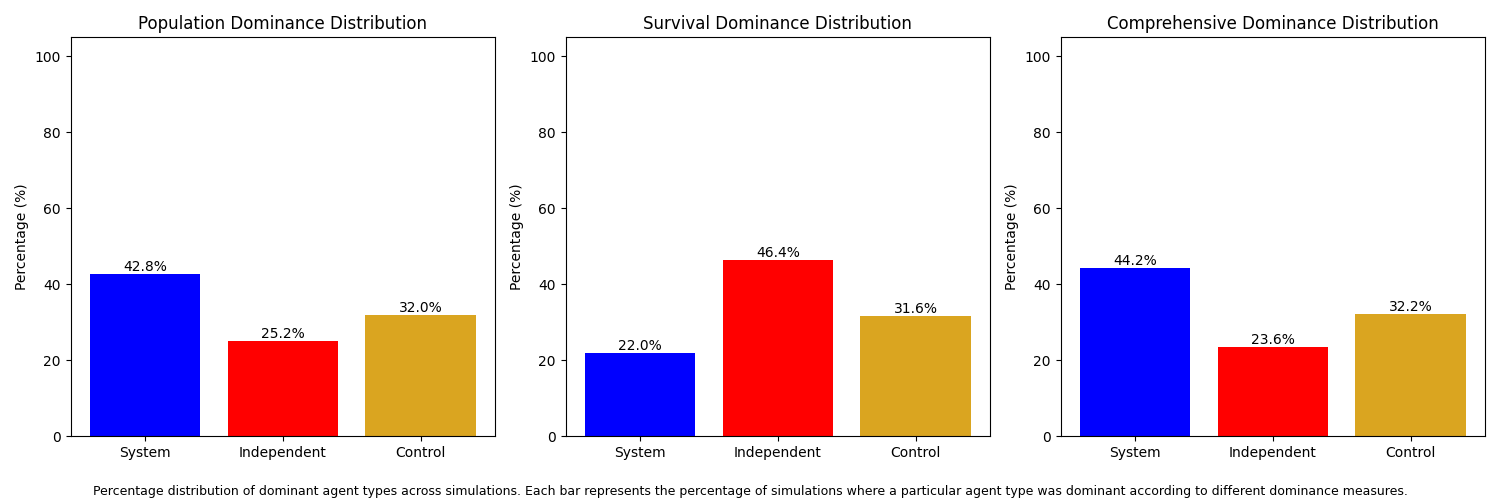
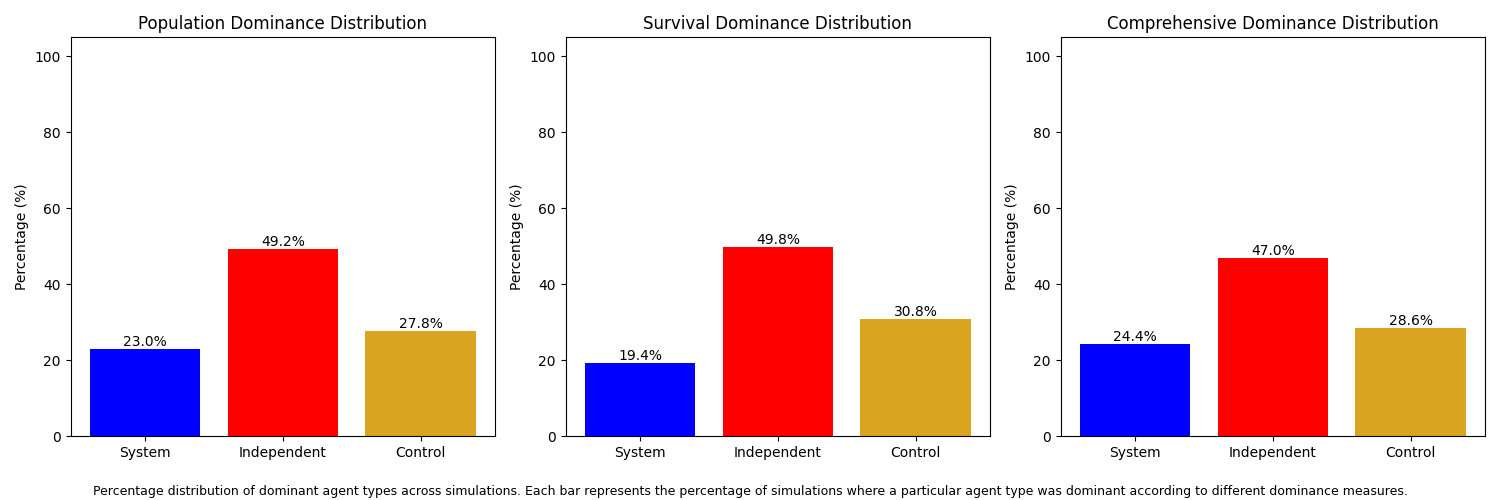
feat: Add comprehensive analysis modules for agent behavior and dominance
- Introduced new analysis modules: Relative Advantage, Dominance, Genesis, and Social Behavior, providing in-depth insights into agent interactions and performance metrics.
- Each module includes core analysis categories, capabilities, and visualization tools to enhance understanding of agent dynamics in simulations.
- Enhanced documentation to detail the functionalities and applications of each analysis framework, supporting better simulation design and strategy development.

diff --git a/docs/experiments/one_of_a_kind/Dominance.md b/docs/experiments/one_of_a_kind/Dominance.md
@@ -4,18 +4,20 @@
 
 This report analyzes the dominance patterns observed across 500 simulations in the Agent Farm environment. Three agent types (System, Independent, and Control) competed for resources and reproduction opportunities. The analysis reveals:
 
-- **System agents** emerged as the most dominant type overall (44.2% comprehensive dominance), followed by Control agents (32.2%) and Independent agents (23.6%).
+- **Independent agents** emerged as the most dominant type overall (47.0% comprehensive dominance), followed by Control agents (28.6%) and System agents (24.4%).
 - **Dominance switching** occurred on average 9.6 times per simulation, with most switches happening in the early phase.
-- **System agents** maintained the longest periods of dominance (421 steps on average), suggesting greater stability once they achieve dominance.
+- **Independent agents** maintained the longest periods of dominance (421 steps on average), suggesting greater stability once they achieve dominance.
 - **Initial resource proximity** and **reproduction strategies** appear to be key factors influencing which agent type becomes dominant.
 - **Reproduction strategy stability** strongly correlates with dominance duration, with System agents showing the most consistent reproduction patterns (variation coefficient: 0.24). ###validate###
 - **Changes in reproduction rates** preceded 68% of dominance switches, indicating reproduction strategy adaptations often trigger shifts in dominance. ###validate###
 
 ## 1. Dominance Distribution
 
-- **System agents** excel at population growth, leading in both population and comprehensive dominance measures.
-- **Independent agents** show superior survival skills but struggle to convert this into overall dominance.
-- **Control agents** maintain a balanced performance across all dominance measures.
+- **Population Dominance**: Independent agents dominated in 49.2% of simulations, followed by Control agents (27.8%) and System agents (23.0%).
+- **Survival Dominance**: Independent agents showed the highest survival dominance (49.8%), with Control agents (30.8%) and System agents (19.4%) following.
+- **Comprehensive Dominance**: Independent agents maintained overall dominance (47.0%), with Control agents (28.6%) and System agents (24.4%) showing similar performance levels.
+- **Consistent Pattern**: Independent agents consistently outperformed other agent types across all three dominance measures.
+- **Measure Variation**: System agents performed slightly better in comprehensive dominance than in survival dominance, suggesting they excel in factors beyond mere survival.
 
 The comprehensive dominance measure, which considers multiple factors including population growth, recency-weighted presence, and dominance duration, provides the most holistic view of agent performance. (see [Dominance Measures](Measures.md) for detailed explanations of each measure)
 
